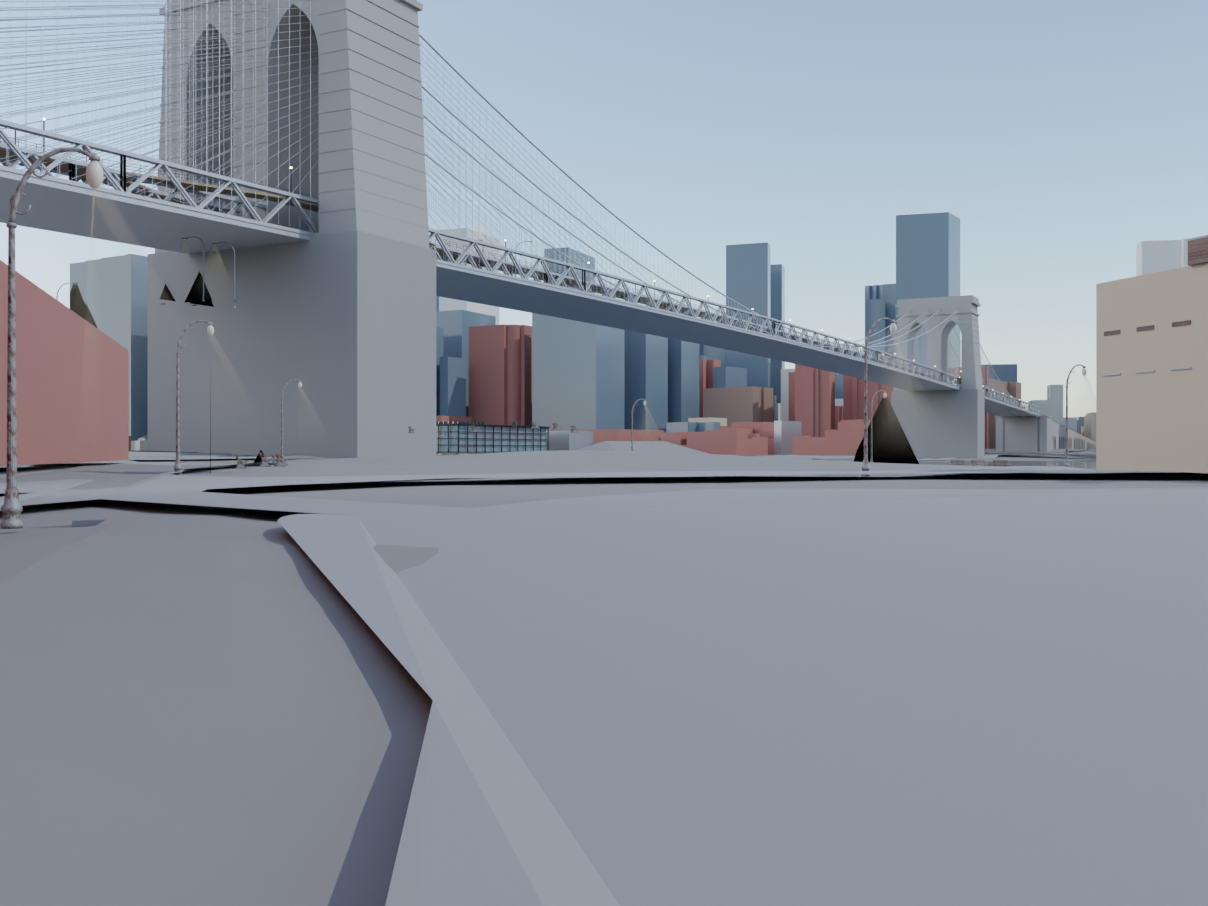
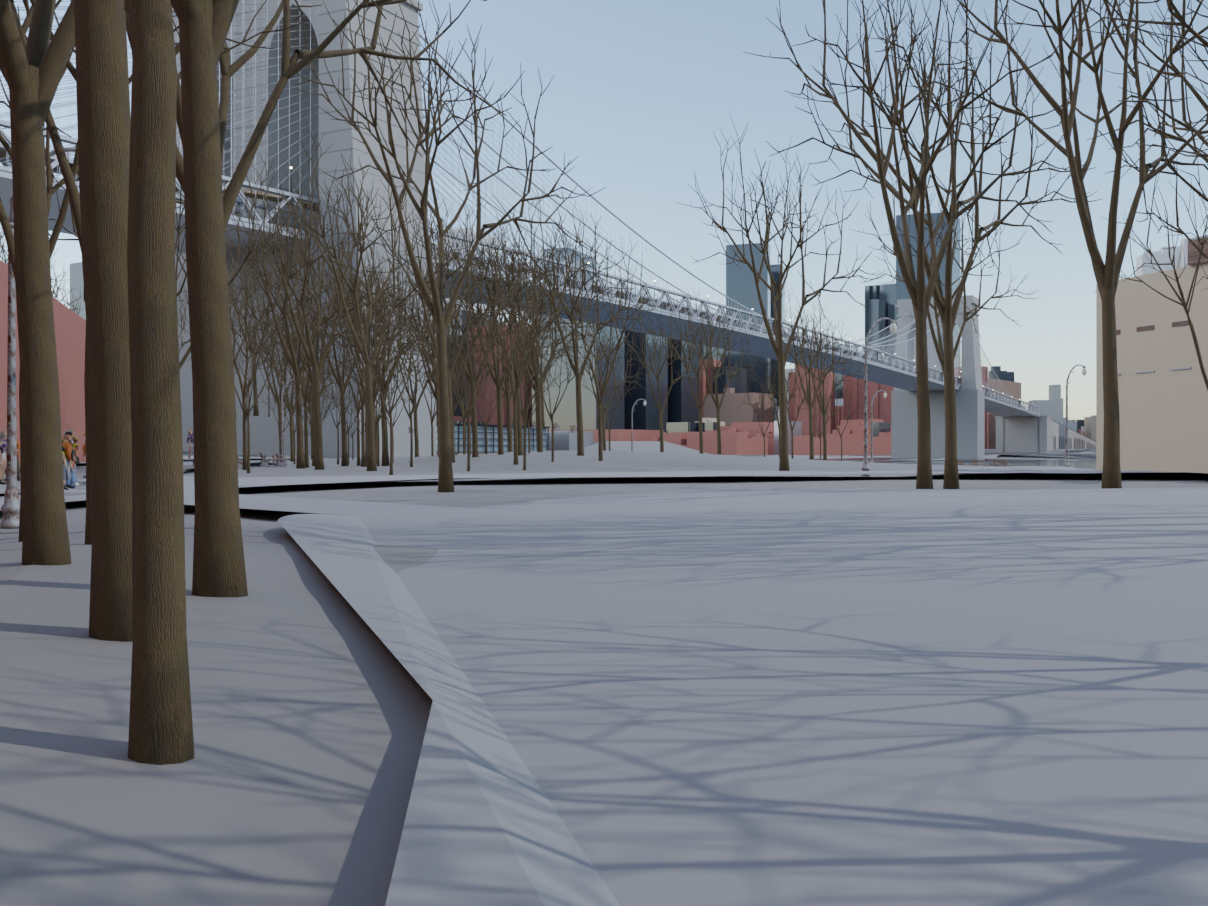
verify: Brooklyn Bridge from DUMBO - a correct winter frame with its subject partly screened
leaf_off comes from the reference photograph's own date, so all 282 trees carry
bare-canopy variants and the long low shadows across the plaza are the right
shape for the season.  The bridge crosses the middle distance with cables and
deck reading clearly, three landmark models placed, 89 vehicles and 427 people
in the scene.

Two things work against the subject.  The item names the Brooklyn tower at
285.9 m and the near field is a stand of bare trunks, the closest a couple of
metres from the lens, screening much of the left of the frame where that tower
stands - in leaf-on season they would hide it entirely.  And the lower third is
untextured pale ground: this is Brooklyn Bridge Park, whose promenade decks and
paving are what B13 records as absent, so timber decking, setts and planting
beds are one flat surface.

Mean luminance 0.483 against 0.390 - brighter, like Barclays and Bethesda, and
another instance of I16 running opposite to the Manhattan canyons.

Claude-Session: https://claude.ai/code/session_012rCzdfEp56Z5bDvSJLVsiQ

diff --git a/docs/verification/comparison/landmark_brooklyn_bridge_from_dumbo/assessment.md b/docs/verification/comparison/landmark_brooklyn_bridge_from_dumbo/assessment.md
@@ -12,6 +12,24 @@
 
 **Verdict — the best bridge model in the set: the Brooklyn tower's twin Gothic arches, the main cables, the suspenders and the deck truss are all there in the right proportions — but it is bare grey where the real tower is coursed granite, and the park it stands in is a blank plane**
 
+## Re-rendered 2026-09-07
+
+A winter frame, correctly: the reference photograph's own date puts `leaf_off` on, so all 282 trees
+in this scene carry the kit's bare-canopy variants and the long low shadows they cast across the
+plaza are the right shape for the season. The Brooklyn Bridge crosses the middle distance with its
+suspension cables and deck reading clearly, the DUMBO block faces sit under it, three landmark models
+are placed, and 89 vehicles and 427 people are in the scene.
+
+**Two things work against the subject.** The item names the Brooklyn tower at 285.9 m, and the near
+field is a stand of bare trunks — the closest of them a couple of metres from the lens — which screen
+a good part of the left of the frame where that tower stands. In leaf-on season they would hide it
+entirely. And the foreground is roughly the lower third of the image as untextured pale ground: this
+is Brooklyn Bridge Park, whose promenade decks and paving are the structures deviation B13 records as
+absent, so what should be timber decking, granite setts and planting beds is one flat surface.
+
+Mean luminance **0.483 against the photograph's 0.390** — brighter, like Barclays and Bethesda, and
+another instance of I16 running in the opposite direction from the Manhattan canyons.
+
 ## What matches
 
 * The Brooklyn tower is recognisably itself: two pointed Gothic arches, the correct pier proportions, the saddle at the top and the main cables running down to the deck on both sides.
